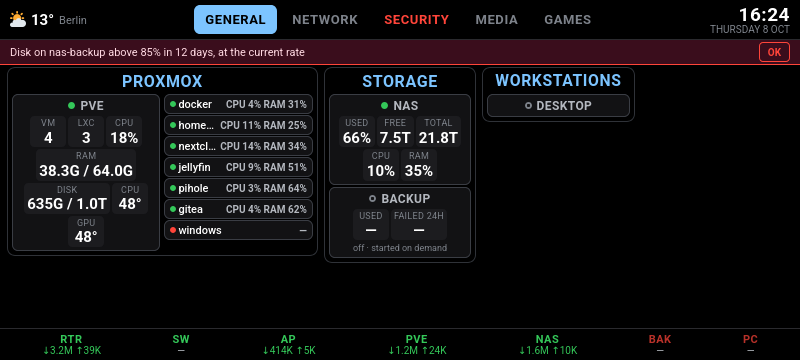
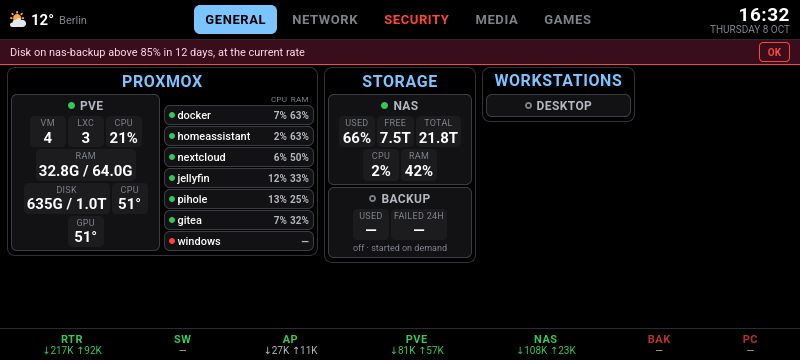
Guest rows: numbers only in landscape with one CPU/RAM header; demo group renamed to merge

diff --git a/static/app.css b/static/app.css
@@ -154,6 +154,11 @@ body.page-hidden *, body.page-hidden *::before, body.page-hidden *::after { anim
 .card.guest .name { font-size: 11px; font-weight: 500; color: var(--text); letter-spacing: 0; text-transform: none; }
 .card.guest .val { font-size: 12px; font-weight: 700; color: var(--sub); line-height: 1.25; white-space: pre-line; }
 .card.guest .val.hot { color: var(--red); }
+.card.guest .val .lbl { font-size: .75em; font-weight: 500; color: var(--muted); margin-right: 2px; }
+.card.guest .val > :last-child { display: none; }          /* the "—" shown when the guest is off */
+.card.guest .val.off > * { display: none; }
+.card.guest .val.off > :last-child { display: inline; }
+.ghead { display: none; }
 .card.guest .disk { font-size: 10px; font-weight: 500; color: var(--sub); line-height: 1.2; }
 .card.guest .disk:empty { display: none; }
 
@@ -240,8 +245,16 @@ body.p-games #content {
   .card .spec { display: none; }
   /* landscape: Proxmox guests one per row ("docker  CPU 6% RAM 49%"), no disk (it shows in the panel) */
   .guests { grid-template-columns: 1fr; gap: 1px; }
-  .card.guest { display: flex; align-items: center; justify-content: space-between; gap: 4px; padding: 2px 5px; }
+  .card.guest { display: flex; align-items: center; justify-content: space-between; gap: 4px; padding: 2px 4px; }
   .card.guest .val { white-space: nowrap; font-size: 10px; }
+  /* one line per guest: the numbers in two aligned columns, their labels once in .ghead */
+  .card.guest .val .sep { display: inline-block; width: 3px; font-size: 0; }
+  .card.guest .val .lbl { display: none; }
+  .card.guest .val .num { display: inline-block; width: 3.3ch; text-align: right; }
+  .card.guest .val.off .num { display: none; }
+  .ghead { display: flex; justify-content: flex-end; gap: 3px; padding: 0 5px; font-size: 8px; color: var(--muted); letter-spacing: .3px; }
+  .ghead span { width: 4.1ch; text-align: right; }   /* 4.1ch at 8px = 3.3ch at 10px: over the numbers */
+  .group { padding-left: 3px; padding-right: 3px; }
   .card.guest .disk { display: none; }
 }
 

diff --git a/static/app.js b/static/app.js
@@ -257,7 +257,14 @@ function mount() {
     let box = null;
     for (const c of cards) {
       if (is_guest(c)) {
-        if (!box) { box = el("div", "guests"); body.appendChild(box); }
+        if (!box) {
+          box = el("div", "guests");
+          // landscape only: the "CPU RAM" labels once above the rows, not on every row
+          const gh = el("div", "ghead");
+          gh.append(el("span", null, "CPU"), el("span", null, "RAM"));
+          box.appendChild(gh);
+          body.appendChild(box);
+        }
         box.appendChild(make_card(c));
       } else {
         box = null;
@@ -469,15 +476,22 @@ function make_guest_card(c) {
   add_dot(head, c);
   head.appendChild(el("span", "name", c.name));
   n.appendChild(head);
+  // "CPU 12%" and "RAM 45%" with small grey labels: in a landscape row the labels then take little
+  // room, and the guest's name keeps it. Built once; an update only rewrites the numbers.
   const val = el("div", "val");
+  const cpu = el("span", "num"), mem = el("span", "num"), off = el("span", "none", "—");
+  val.append(el("span", "lbl", "CPU"), cpu, el("span", "sep", "\n"), el("span", "lbl", "RAM"), mem, off);
   n.appendChild(val);
   const disk = el("div", "disk");
   n.appendChild(disk);
   const base = `proxmox.${c.check[1]}.guests.${c.check[2]}`;
   updaters.push(() => {
     const g = get(base);
-    if (!g || !g.running) { put(val, "—"); put(disk, ""); cls(val, "hot", false); return; }
-    put(val, `CPU ${Math.round(g.cpu || 0)}%\nRAM ${Math.round(g.mem || 0)}%`);
+    const running = !!(g && g.running);
+    cls(val, "off", !running);
+    if (!running) { put(disk, ""); cls(val, "hot", false); return; }
+    put(cpu, `${Math.round(g.cpu || 0)}%`);
+    put(mem, `${Math.round(g.mem || 0)}%`);
     put(disk, g.disk_used != null ? "Disk " + used_of(g.disk_used, g.disk_total, false) : "");
     // Do NOT colour by percentage: Proxmox computes it as `total - MemFree`, so it counts the page
     // cache too, and any Linux machine that ran for a day reaches ~95% without any problem.

diff --git a/CHANGELOG.md b/CHANGELOG.md
@@ -14,6 +14,8 @@ still change in a minor version; such changes are listed under **Changed** with 
   (before, a title could end up at the bottom of one column with its cards in the next). Columns
   are balanced; a group taller than the screen spans two columns, with its cards in two columns
   inside; a page that still does not fit is zoomed out a little (down to 60%) instead of cut.
+- Proxmox guest rows in landscape show only the numbers, with "CPU RAM" once above the rows, so
+  the guest names have room; the panel and portrait keep the labels on every row.
 - `keep_together` on a group has no effect any more (no group splits now); it is still accepted.
 - New demo screenshots, plus one in portrait.
 
